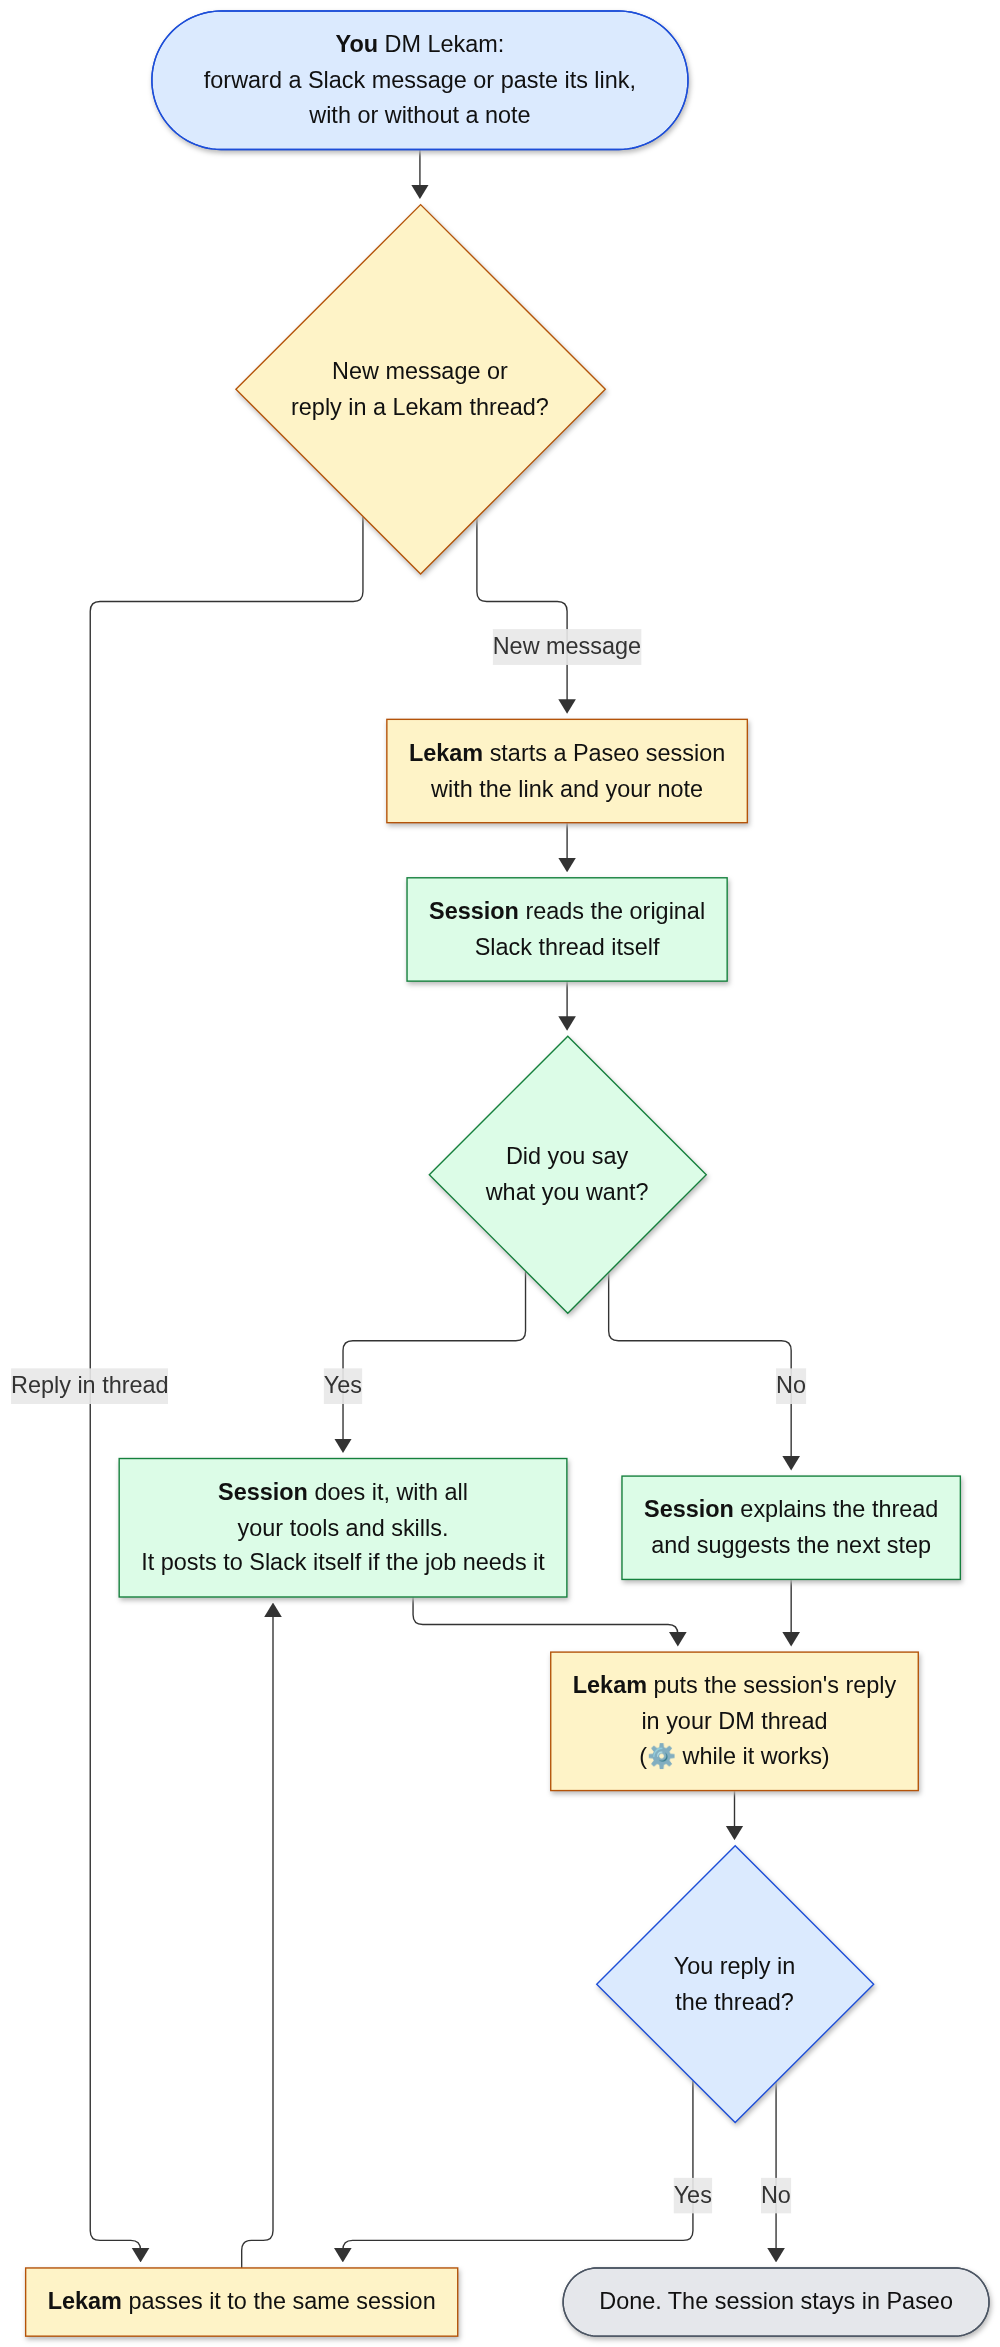
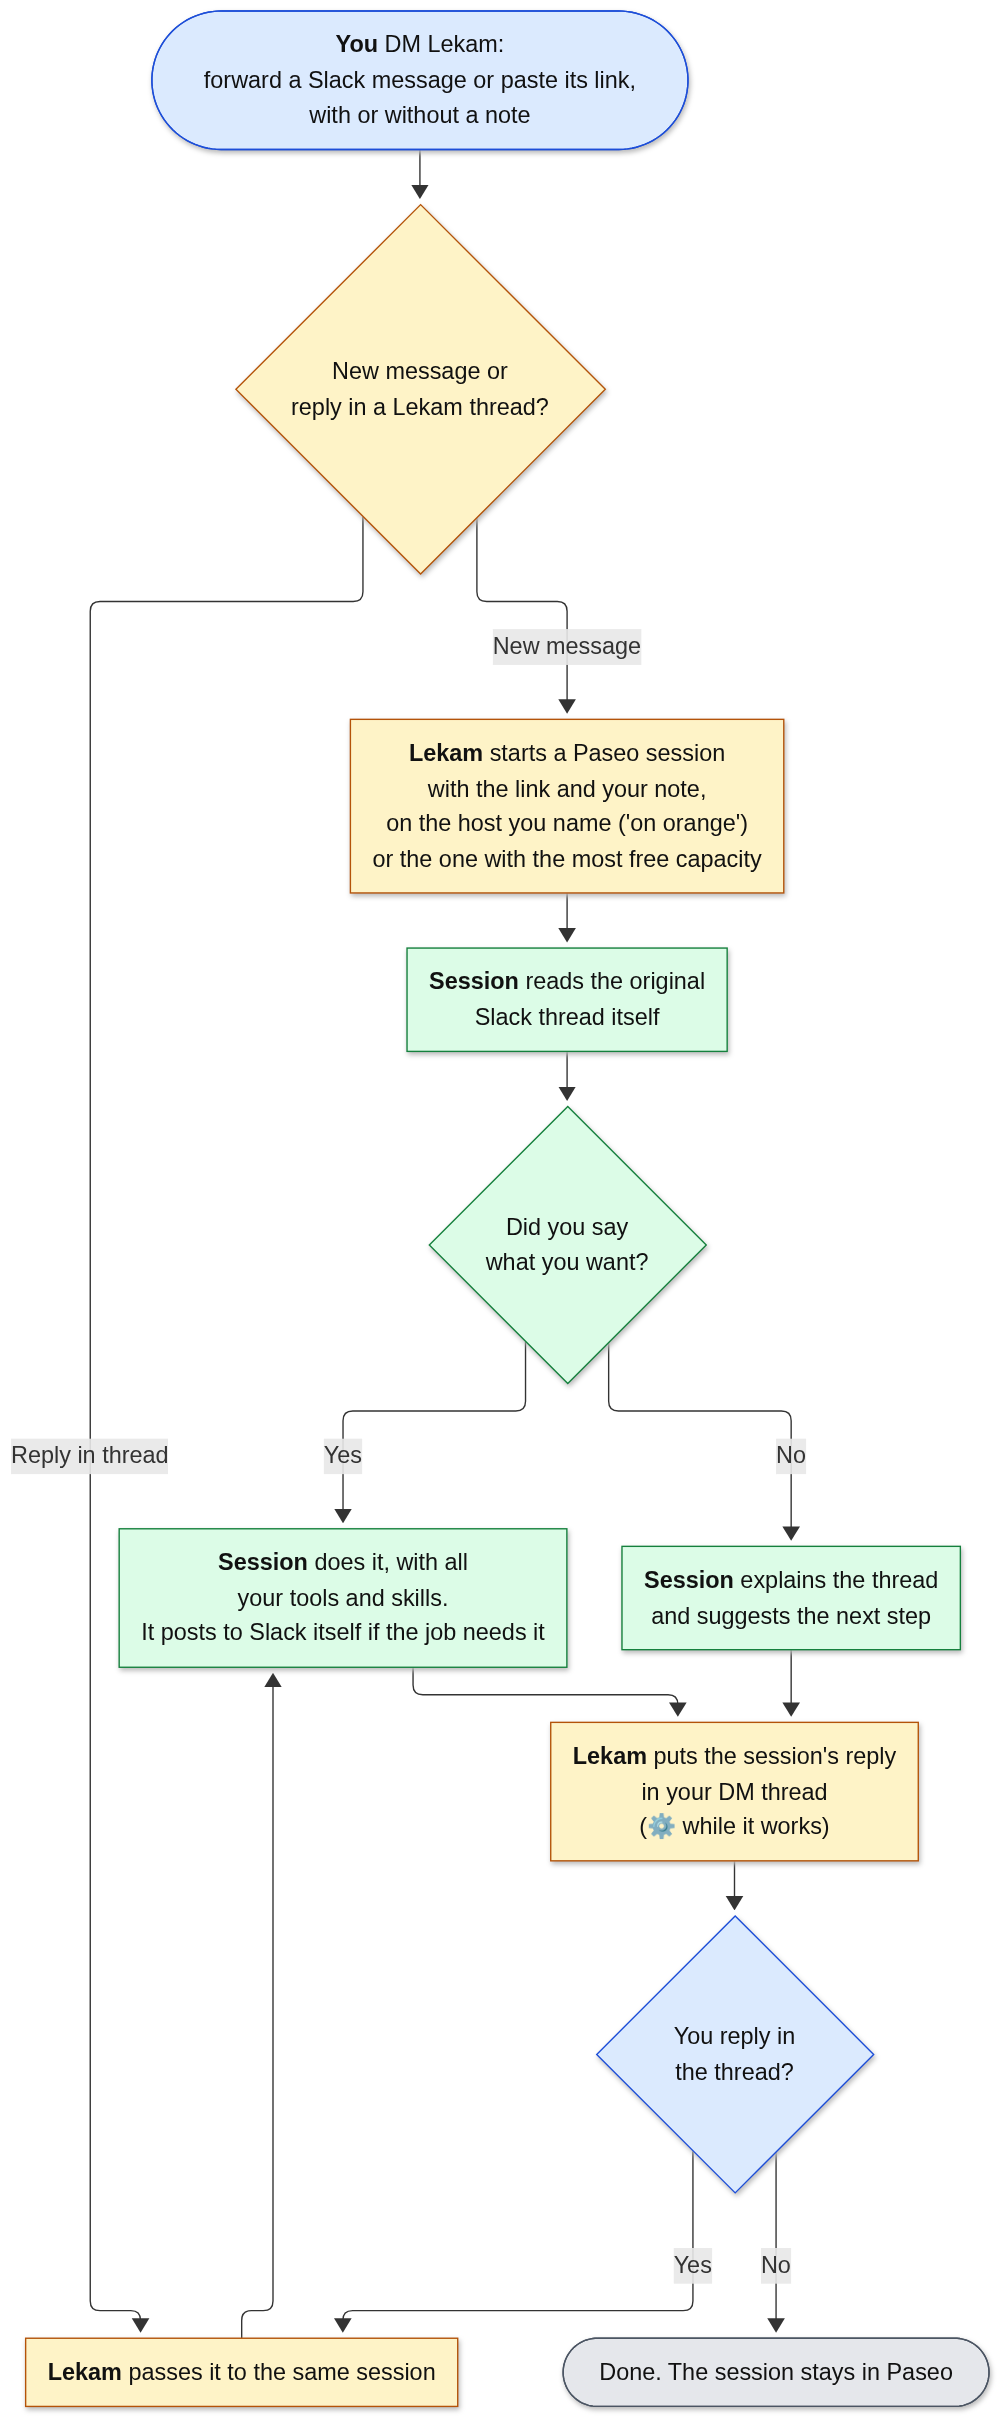
Sessions on banana or orange: a host named in the note wins, else the one with the most free capacity; replies find the session on any host

diff --git a/README.md b/README.md
@@ -8,6 +8,8 @@
 2. Lekam starts a Paseo session with the message's link and your note. The session reads the thread itself with its own Slack tools and does what you asked. With no note, it works out what the thread needs and suggests the next step.
 3. The DM thread under your forward is your chat with that session: your replies go to it, its replies come back there (⚙ while it works).
 
+**Which machine:** say "on orange" (or any host name) in your note to choose. Otherwise the session goes to the host with the most free capacity right now. Replies always go to the host the thread's session is on.
+
 That's all. Lekam posts nowhere except your DM threads with it, and only for its owner. Anything that has to go out to Slack (a reply in the original thread, a message to someone), the session posts itself with its own Slack tools.
 
 ![How Lekam works](docs/flow.png)
@@ -23,7 +25,8 @@ Needs Node 22.13+, a Paseo daemon, and a Slack app made from `config/slack-manif
 | `LEKAM_SLACK_BOT_TOKEN` | | `xoxb-…` |
 | `LEKAM_SLACK_APP_TOKEN` | | `xapp-…` (Socket Mode) |
 | `LEKAM_OWNER` | | your Slack user id; DMs from anyone else are ignored |
-| `LEKAM_PASEO_URL` | `ws://127.0.0.1:6767/ws` | |
+| `LEKAM_HOSTS` | `<hostname>=ws://127.0.0.1:6767/ws` | Paseo daemons as `name=target`, comma-separated; `ssh://user@host` reaches another machine's daemon over SSH. The first is the fallback |
+| `LEKAM_CAPACITY_SCRIPT` | `~/.agents/skills/host-dispatch/scripts/capacity.mjs` | prints `--json` with the `best` host; missing or failing = first host |
 | `LEKAM_PROVIDER` | `pi/litellm/claude-sonnet-5-5` | `provider/model` for new sessions |
 | `LEKAM_CWD` | `~/work` | working directory for new sessions |
 | `LEKAM_TURN_TIMEOUT_MIN` | `120` | after this the session keeps going in Paseo; Lekam stops waiting |
